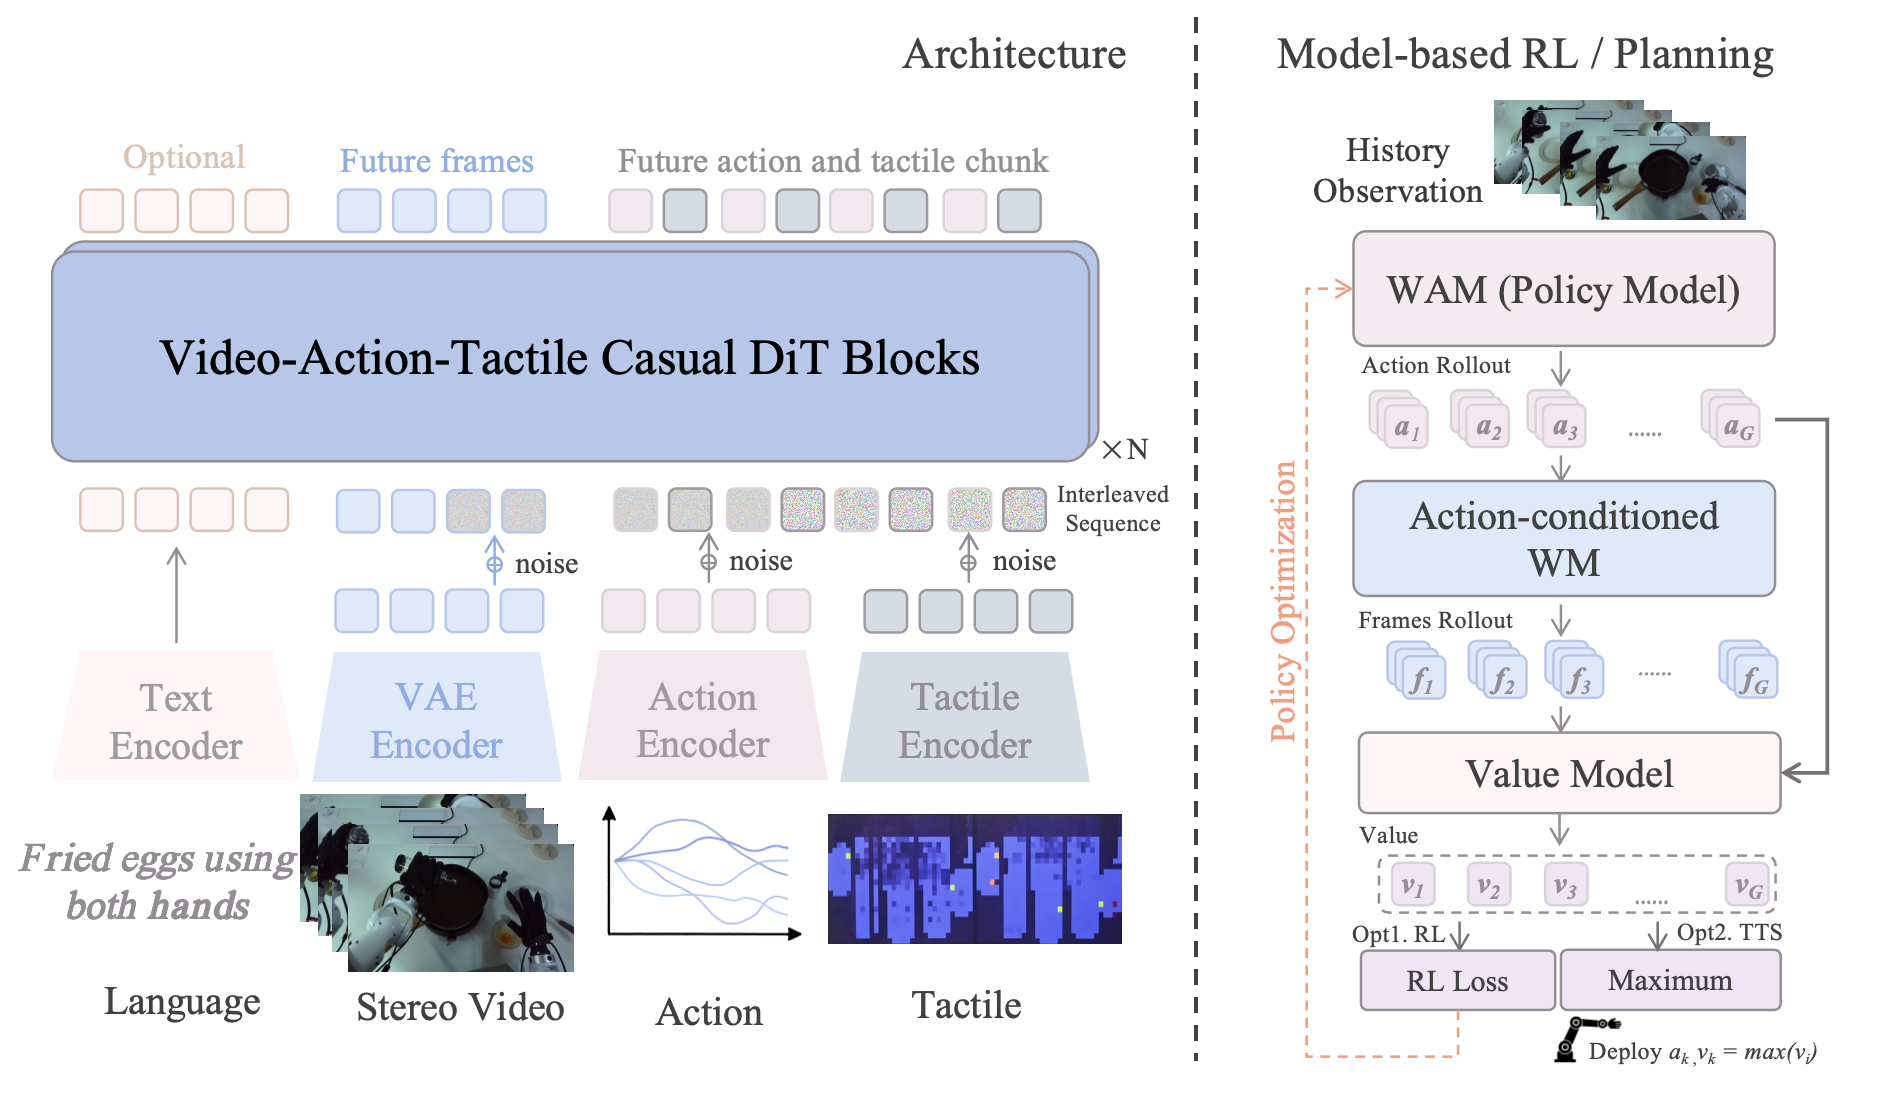
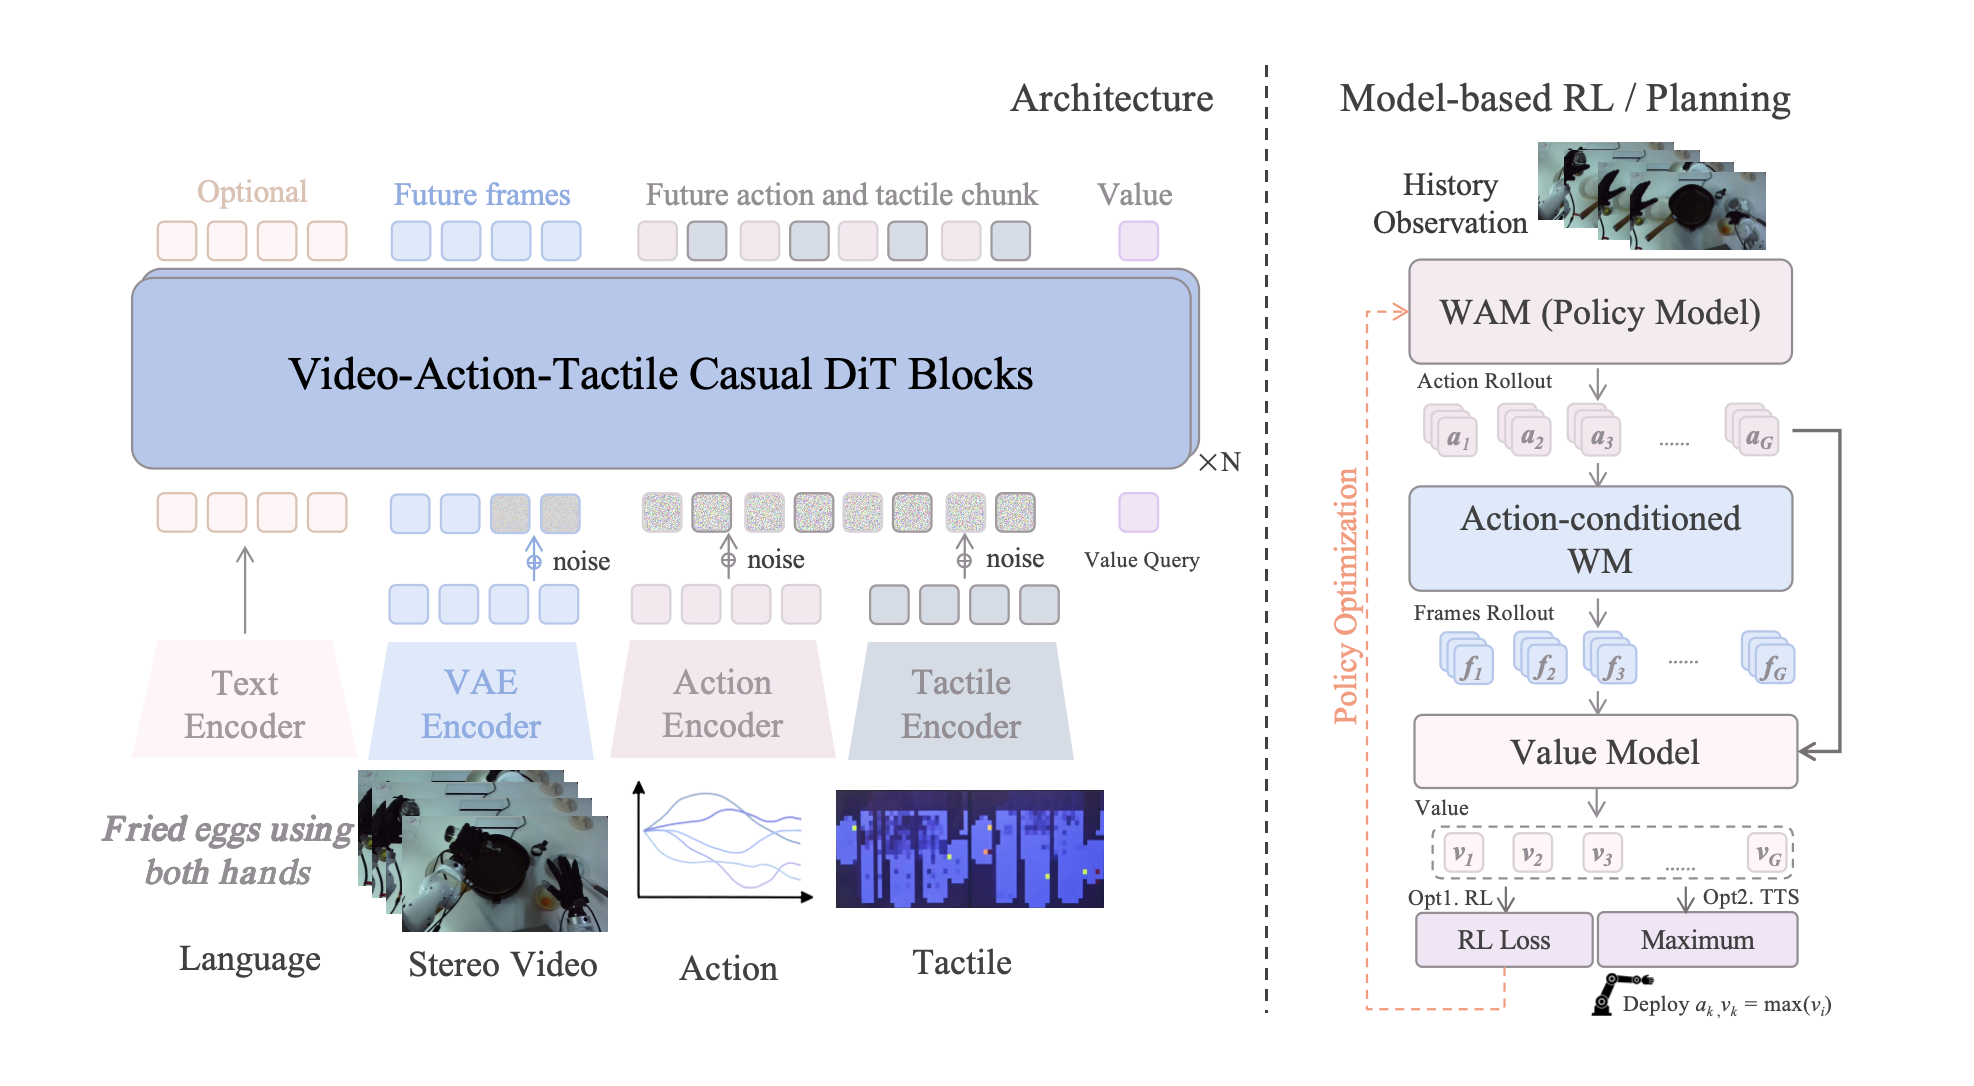
0608

diff --git a/motus2/index.html b/motus2/index.html
@@ -91,7 +91,7 @@
           <li><strong>Human Data Pyramid</strong> — web video → monocular ego (110k+ hrs) → stereo ego (20k hrs) → human-robot align → robot tactile demos.</li>
           <li><strong>Sliding Window AR + Streaming Inference</strong> — long-horizon autoregressive rollouts at deployment without resetting context each step.</li>
           <li><strong>Self-evolving via MBRL</strong> — Ray-based distributed async RL on failure, suboptimal, and task-irrelevant trajectories.</li>
-          <li><strong>Scaling laws &amp; test-time compute</strong> — predictable human-data loss scaling; planning via imagined rollouts and value search.</li>
+          <li><strong>Test-time scaling</strong> — spend inference compute on the unified world model: <em>Planning</em> (search rollouts in breadth) and <em>Loop</em> (refine via FDM↔IDM in depth).</li>
           <li><strong>Fully open-source</strong> — code, model weights, and paper will be released to the community (coming soon).</li>
         </ul>
       </div>
@@ -246,6 +246,20 @@
           <div class="demo-info"><h3>Cut Asparagus</h3><p>Scissors task — coming soon</p></div>
         </div> -->
       </div>
+
+      <div class="demo-tactile">
+        <div class="demo-card demo-card--tactile">
+          <div class="demo-video demo-video--tactile">
+            <video autoplay controls loop muted playsinline preload="auto">
+              <source src="assets/video/tactile_realtime.mp4" type="video/mp4">
+            </video>
+          </div>
+          <div class="demo-info">
+            <h3>Real-Time Tactile Visualization</h3>
+            <p>Live full-palm tactile heatmaps streamed during manipulation.</p>
+          </div>
+        </div>
+      </div>
     </div>
   </section>
 
@@ -384,12 +398,40 @@
       </figure>
 
       <div class="m2-prose">
-        <h3>Test-Time Scaling &amp; Planning</h3>
+        <h3>Test-Time Scaling</h3>
         <p>
-          At deployment, the planner and simulator run inside the same weights: propose an action
-          chunk, roll out future frames with the world model, re-infer actions (IDM + FDM / denoising),
-          and let the evaluator pick high-value branches — <strong>test-time scaling</strong> over
-          imagined trajectories rather than more parameters.
+          Training-time scaling adds parameters and data; <strong>test-time scaling</strong> adds
+          <em>inference compute</em> on the <em>same</em> unified world model — the model imagines
+          futures before acting on the robot. Because renderer, simulator, planner, and evaluator
+          share one backbone, every extra forward pass is a meaningful thought step: simulate contact,
+          score outcomes, and only then commit an action.
+        </p>
+        <p>
+          Motus2 uses two complementary routes, both enabled by <strong>Sliding Window AR</strong> and
+          <strong>Streaming Inference</strong> for long horizons:
+        </p>
+        <ul class="m2-tts-list">
+          <li><strong>Planning (breadth)</strong> — propose candidate action chunks, roll out parallel
+          imagined trajectories with the world model, and let the value model pick the best branch
+          before deployment.</li>
+          <li><strong>Loop (depth)</strong> — iteratively alternate forward dynamics (FDM: imagine the
+          next frames) and inverse dynamics (IDM: re-infer actions from those frames), sharpening one
+          trajectory through multiple denoising passes — the operational form of post-training
+          <em>Loop</em> mode.</li>
+        </ul>
+        <p>
+          Planning answers <em>which branch to take</em>; Loop answers <em>how to refine the action
+          on that branch</em>. Together they are test-time scaling without a larger model: think longer
+          in imagination, then act once on hardware.
+        </p>
+
+        <h4>Planning — search across imagined rollouts</h4>
+        <p>
+          The world action model proposes action-chunk candidates from the current egocentric
+          observation. The action-conditioned world model (renderer + simulator) rolls out future
+          frames and tactile feedback; the value model scores each imagined trajectory. The highest-value
+          rollout is selected for execution — model-based planning as <strong>breadth-first</strong>
+          test-time compute.
         </p>
       </div>
 
@@ -398,32 +440,43 @@
              alt="Model-based planning with world action model, rollouts, value model, and policy optimization"
              loading="lazy">
         <figcaption class="m2-figure__caption">
-          <strong>Figure 5: Model-Based Planning.</strong>
-          The world action model generates future frame and action-chunk rollouts; the value model
-          scores trajectories for policy optimization at deployment.
+          <strong>Figure 5: Test-Time Planning.</strong>
+          World Action Model generates frame and action-chunk rollouts; the Value Model scores
+          trajectories; the best branch is deployed — breadth scaling over parallel imagined futures.
         </figcaption>
       </figure>
 
-      <div class="loop-steps">
+      <div class="m2-prose">
+        <h4>Loop — iterative FDM ↔ IDM refinement</h4>
+        <p>
+          When a single rollout needs to be sharpened rather than selected among many, Motus2 enters
+          the <strong>Loop</strong> path: FDM predicts the next observation tokens, IDM re-infers the
+          action that would have produced them, and the cycle repeats — each pass conditioning on the
+          model's own imagined future. This is <strong>depth-first</strong> test-time compute: more
+          denoising iterations, same weights.
+        </p>
+      </div>
+
+      <div class="loop-steps" aria-label="Test-time loop refinement">
         <div class="loop-step">
           <div class="loop-step__num">1</div>
-          <h4>Plan</h4>
-          <p>World action model proposes an action chunk</p>
+          <h4>FDM</h4>
+          <p>Forward dynamics: simulate next video &amp; tactile tokens</p>
         </div>
         <div class="loop-step">
           <div class="loop-step__num">2</div>
-          <h4>Simulate</h4>
-          <p>Renderer / AC-WM rolls out future frames</p>
+          <h4>IDM</h4>
+          <p>Inverse dynamics: re-infer action from imagined observation</p>
         </div>
         <div class="loop-step">
           <div class="loop-step__num">3</div>
-          <h4>Refine</h4>
-          <p>IDM + FDM re-infer actions on new observations</p>
+          <h4>Loop</h4>
+          <p>Condition on rollout; repeat until action chunk converges</p>
         </div>
         <div class="loop-step">
           <div class="loop-step__num">4</div>
-          <h4>Evaluate</h4>
-          <p>Value model scores branches; deploy best rollout</p>
+          <h4>Act</h4>
+          <p>Deploy refined chunk; replan with new real observation</p>
         </div>
       </div>
 
@@ -470,10 +523,10 @@
       <div class="m2-prose">
         <p>
           The fourth mode, <strong>Loop</strong>, has no fixed mask of its own: it <strong>iteratively
-          refines</strong> by alternating the forward dynamics model (FDM, imagine the next frames) and
-          the inverse dynamics model (IDM, re-infer actions from those frames). Each pass conditions on
-          the previous rollout, so the action chunk is progressively sharpened against the model's own
-          imagined future.
+          refines</strong> by alternating FDM (imagine the next frames) and IDM (re-infer actions from
+          those frames). Post-training teaches these operators; at deployment they become the
+          <strong>depth</strong> path of test-time scaling — complementary to <strong>Planning</strong>,
+          which searches across parallel rollouts in breadth.
         </p>
       </div>
     </div>

diff --git a/motus2/static/css/motus2.css b/motus2/static/css/motus2.css
@@ -558,6 +558,27 @@ body.motus2-dark .hero-authors a {
   margin: 2rem 0 0.75rem;
 }
 
+.m2-prose h4 {
+  font-size: 1.05rem;
+  font-weight: 700;
+  color: var(--m2-ink);
+  margin: 1.75rem 0 0.65rem;
+}
+
+.m2-tts-list {
+  margin: 0 0 1.25rem;
+  padding-left: 1.25rem;
+  line-height: 1.75;
+}
+
+.m2-tts-list li {
+  margin-bottom: 0.6rem;
+}
+
+.m2-tts-list li:last-child {
+  margin-bottom: 0;
+}
+
 .m2-prose ul {
   margin: 0 0 1.25rem;
   padding-left: 1.25rem;
@@ -915,6 +936,24 @@ body.motus2-dark .demo-grid--2x2 {
   }
 }
 
+/* Tactile viz — same width as the 2×2 demo row */
+.demo-tactile {
+  width: 100%;
+  max-width: 720px;
+  margin-inline: auto;
+  margin-top: clamp(1.15rem, 3vw, 2.25rem);
+}
+
+@media (max-width: 560px) {
+  .demo-tactile {
+    max-width: 360px;
+  }
+}
+
+.demo-card--tactile {
+  width: 100%;
+}
+
 /* Post-training mode attention masks — three side by side */
 .m2-mask-grid {
   display: grid;
@@ -1102,6 +1141,13 @@ body.motus2-dark .demo-grid--2x2 {
   object-fit: contain;
   object-position: center center;
   background: #000;
+}
+
+/* Tactile viz: landscape native ratio (override 9:16 demo default) */
+body.motus2-dark .demo-video--tactile video {
+  aspect-ratio: 1280 / 416;
+  height: auto;
+  object-fit: contain;
 }
 
 /* Subsection title from motus_style if used */